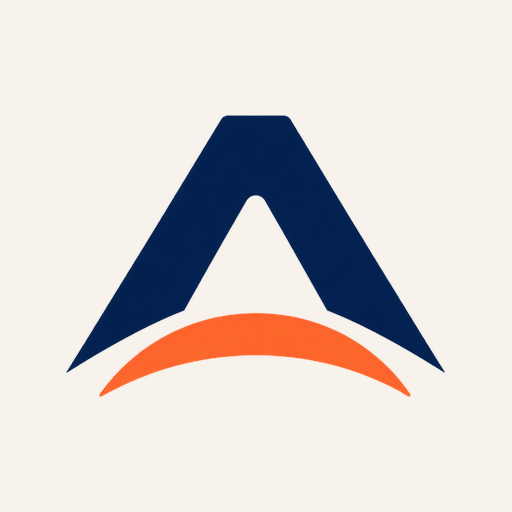
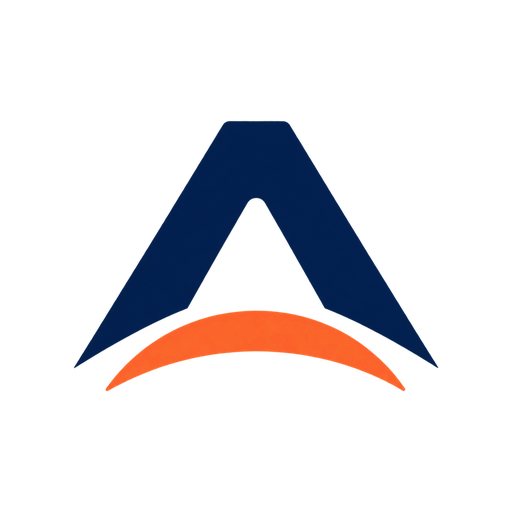
Botão Conectar Google Agenda e ícone do app com fundo branco
A professora autoriza a conta Google pelo painel; o servidor troca o código
e guarda a autorização numa tabela que só ele acessa. Ícones refeitos em branco.

Claude-Session: https://claude.ai/code/session_017oc1NScQpY3TRguNKSUKuj

diff --git a/supabase/functions/chat/index.ts b/supabase/functions/chat/index.ts
@@ -191,19 +191,70 @@ const AGENDA_URL = Deno.env.get("APP_URL") ?? "https://faranimarcielle-arch.gith
 const CLASS_MINUTES = 30;
 
 let googleToken = { value: "", expires: 0 };
-async function googleAccess(): Promise<string | null> {
-  const id = Deno.env.get("GOOGLE_CLIENT_ID"), secret = Deno.env.get("GOOGLE_CLIENT_SECRET"), refresh = Deno.env.get("GOOGLE_REFRESH_TOKEN");
-  if (!id || !secret || !refresh) return null;
-  if (googleToken.value && Date.now() < googleToken.expires) return googleToken.value;
+const GOOGLE_SCOPES = "https://www.googleapis.com/auth/calendar.events https://www.googleapis.com/auth/gmail.send";
+const googleClient = () => {
+  const id = Deno.env.get("GOOGLE_CLIENT_ID"), secret = Deno.env.get("GOOGLE_CLIENT_SECRET");
+  return id && secret ? { id, secret } : null;
+};
+async function googleTokenRequest(params: Record<string, string>) {
   const r = await fetch("https://oauth2.googleapis.com/token", {
-    method: "POST", headers: { "Content-Type": "application/x-www-form-urlencoded" },
-    body: new URLSearchParams({ client_id: id, client_secret: secret, refresh_token: refresh, grant_type: "refresh_token" }),
+    method: "POST", headers: { "Content-Type": "application/x-www-form-urlencoded" }, body: new URLSearchParams(params),
   });
   const j = await r.json().catch(() => ({}));
   if (!r.ok || !j.access_token) throw new Error("Google token: " + (j.error_description || j.error || r.status));
+  return j;
+}
+async function googleAccess(): Promise<string | null> {
+  const c = googleClient();
+  if (!c) return null;
+  if (googleToken.value && Date.now() < googleToken.expires) return googleToken.value;
+  // The token saved by the "Conectar" button wins; the secret is a manual fallback.
+  const { data } = await admin.from("google_credentials").select("refresh_token").eq("id", 1).maybeSingle();
+  const refresh = data?.refresh_token || Deno.env.get("GOOGLE_REFRESH_TOKEN");
+  if (!refresh) return null;
+  const j = await googleTokenRequest({ client_id: c.id, client_secret: c.secret, refresh_token: refresh, grant_type: "refresh_token" });
   googleToken = { value: j.access_token, expires: Date.now() + (Number(j.expires_in) - 60) * 1000 };
   return googleToken.value;
 }
+
+// "Conectar Google Agenda": the panel asks for the Google sign-in address, Google sends the teacher back
+// to the panel with a one-time code, and the panel hands the code here to be exchanged and stored.
+const okRedirect = (u: unknown): u is string =>
+  typeof u === "string" && ALLOWED_ORIGINS.some(o => u.startsWith(o + "/")) && /\/app\/professor\/$/.test(u) && u.length < 200;
+async function requireTeacher(userId: string) {
+  const { data } = await admin.from("profiles").select("role").eq("id", userId).single();
+  if (data?.role !== "teacher") throw new HttpError(403, "Só o professor pode fazer isso.");
+}
+async function googleAuthUrl(body: Record<string, unknown>) {
+  const c = googleClient();
+  if (!c) throw new HttpError(400, "Faltam GOOGLE_CLIENT_ID e GOOGLE_CLIENT_SECRET nos Secrets do Supabase.");
+  if (!okRedirect(body.redirect_uri)) throw new HttpError(400, "Endereço de retorno inválido.");
+  const state = crypto.randomUUID();
+  await admin.from("google_oauth_state").delete().lt("created_at", new Date(Date.now() - 3600000).toISOString());
+  await admin.from("google_oauth_state").insert({ state });
+  const q = new URLSearchParams({ client_id: c.id, redirect_uri: body.redirect_uri, response_type: "code", scope: GOOGLE_SCOPES,
+    access_type: "offline", prompt: "consent", include_granted_scopes: "true", login_hint: TEACHER_EMAIL, state });
+  return { url: "https://accounts.google.com/o/oauth2/v2/auth?" + q };
+}
+async function googleConnect(body: Record<string, unknown>) {
+  const c = googleClient();
+  if (!c) throw new HttpError(400, "Faltam GOOGLE_CLIENT_ID e GOOGLE_CLIENT_SECRET nos Secrets do Supabase.");
+  if (typeof body.code !== "string" || typeof body.state !== "string" || !okRedirect(body.redirect_uri)) throw new HttpError(400, "Pedido inválido.");
+  const { data: st } = await admin.from("google_oauth_state").delete().eq("state", body.state)
+    .gt("created_at", new Date(Date.now() - 3600000).toISOString()).select("state");
+  if (!st?.length) throw new HttpError(400, "A conexão expirou. Clique em Conectar de novo.");
+  let j;
+  try { j = await googleTokenRequest({ client_id: c.id, client_secret: c.secret, code: body.code, redirect_uri: body.redirect_uri, grant_type: "authorization_code" }); }
+  catch (e) { console.error(e); throw new HttpError(400, "O Google recusou a conexão. Clique em Conectar de novo."); }
+  if (!j.refresh_token) throw new HttpError(400, "O Google não enviou a autorização permanente. Clique em Conectar de novo.");
+  const granted = String(j.scope || "");
+  if (!granted.includes("calendar.events") || !granted.includes("gmail.send"))
+    throw new HttpError(400, "Faltou marcar uma das permissões (agenda e e-mail). Clique em Conectar de novo e marque as duas.");
+  await admin.from("google_credentials").upsert({ id: 1, refresh_token: j.refresh_token, updated_at: new Date().toISOString() });
+  googleToken = { value: j.access_token, expires: Date.now() + (Number(j.expires_in) - 60) * 1000 };
+  return { connected: true };
+}
+
 async function google(token: string, method: string, url: string, body?: unknown) {
   const r = await fetch(url, { method, headers: { Authorization: `Bearer ${token}`, "Content-Type": "application/json" }, body: body ? JSON.stringify(body) : undefined });
   if (method === "DELETE" && (r.status === 404 || r.status === 410)) return null; // already gone
@@ -304,6 +355,10 @@ Deno.serve(async (req) => {
     if (!user) throw new HttpError(401, "Faça login de novo.");
     const body = await req.json().catch(() => ({})) as Record<string, unknown>;
     if (body.action === "agenda") return json(await agendaNotices(), 200, origin);
+    if (body.action === "google_auth_url" || body.action === "google_connect") {
+      await requireTeacher(user.id);
+      return json(body.action === "google_auth_url" ? await googleAuthUrl(body) : await googleConnect(body), 200, origin);
+    }
     const learner = await loadLearner(user.id);
     if (body.action === "start") return json({ opener: OPENER(learner.name) }, 200, origin);
     if (body.action === "reply") return json(await reply(learner, body), 200, origin);

diff --git a/app/professor/professor.js b/app/professor/professor.js
@@ -5,11 +5,32 @@ renderNav("professor", login.profile);
 if (!login.profile || login.profile.role !== "teacher"){ $("#denied").hidden = false; throw new Error("not teacher"); }
 $("#students-card").hidden = false;
 $("#agenda-card").hidden = false;
-// Also sends any pending class notice (Google Calendar + e-mail) and shows whether Google is connected.
-callChat({ action: "agenda" }).then(r => { $("#gcal-status").textContent = r && r.google
-  ? "Google Agenda e e-mails: conectados." + (r.sent ? ` ${r.sent} aviso(s) enviado(s) agora.` : "")
-  : "Google Agenda e e-mails: ainda não configurados (faltam as chaves do Google no Supabase)."; })
-  .catch(e => { $("#gcal-status").textContent = "Google Agenda: " + (e.msg || "erro ao conectar."); });
+// Google Calendar + e-mails. Google sends the teacher back here with ?code=... after she allows access.
+const back = location.origin + location.pathname;
+const gq = new URLSearchParams(location.search);
+async function googleStatus(){
+  // Also sends any pending class notice and shows whether Google is connected.
+  try{
+    const r = await callChat({ action: "agenda" });
+    $("#gcal-status").textContent = r && r.google
+      ? "Google Agenda e e-mails: conectados." + (r.sent ? ` ${r.sent} aviso(s) enviado(s) agora.` : "")
+      : "Google Agenda e e-mails: ainda não conectados.";
+    $("#gcal-connect").textContent = r && r.google ? "Conectar de novo" : "Conectar Google Agenda";
+  }catch(e){ $("#gcal-status").textContent = "Google Agenda: " + (e.msg || "erro ao conectar."); }
+}
+$("#gcal-connect").addEventListener("click", async () => {
+  $("#gcal-status").textContent = "Abrindo o Google…";
+  try{ const r = await callChat({ action: "google_auth_url", redirect_uri: back }); location.assign(r.url); }
+  catch(e){ $("#gcal-status").textContent = e.msg; }
+});
+async function googleReturn(){
+  history.replaceState(null, "", back);
+  if (gq.has("error")){ $("#gcal-status").textContent = "A conexão com o Google foi cancelada."; return; }
+  $("#gcal-status").textContent = "Conectando…";
+  try{ await callChat({ action: "google_connect", code: gq.get("code"), state: gq.get("state"), redirect_uri: back }); await googleStatus(); }
+  catch(e){ $("#gcal-status").textContent = e.msg; }
+}
+if (gq.has("code") || gq.has("error")) googleReturn(); else googleStatus();
 
 const fmt = iso => new Date(iso).toLocaleString("pt-BR", { dateStyle:"short", timeStyle:"short" });
 let current = null;

diff --git a/app/professor/index.html b/app/professor/index.html
@@ -23,7 +23,7 @@
 
   <div class="card" id="agenda-card" hidden>
     <h2>Agenda e horários</h2>
-    <p class="small muted" id="gcal-status" role="status"></p>
+    <div class="row"><button class="btn" id="gcal-connect" type="button">Conectar Google Agenda</button><span class="small muted" id="gcal-status" role="status"></span></div>
     <label class="f" for="meet">Link padrão do Meet (o aluno só recebe no horário da aula)<input type="text" id="meet" maxlength="200" placeholder="https://meet.google.com/..."></label>
     <div class="row"><button class="btn primary" id="meet-save" type="button">Salvar link</button><span class="status" id="meet-status" role="status"></span></div>
     <h3>Horários da semana · aulas de 30 minutos</h3>

diff --git a/app/sw.js b/app/sw.js
@@ -1,7 +1,7 @@
 // FLUA service worker: makes the platform installable and keeps the last version of each page for weak connections.
 // Network first, so students always get the newest version when online. Only this site's own files are cached:
 // requests to Supabase, the AI and other sites are never touched.
-const CACHE = "flua-v1";
+const CACHE = "flua-v2";
 self.addEventListener("install", (e) => self.skipWaiting());
 self.addEventListener("activate", (e) => e.waitUntil(
   caches.keys().then((keys) => Promise.all(keys.filter((k) => k !== CACHE).map((k) => caches.delete(k)))).then(() => self.clients.claim())
